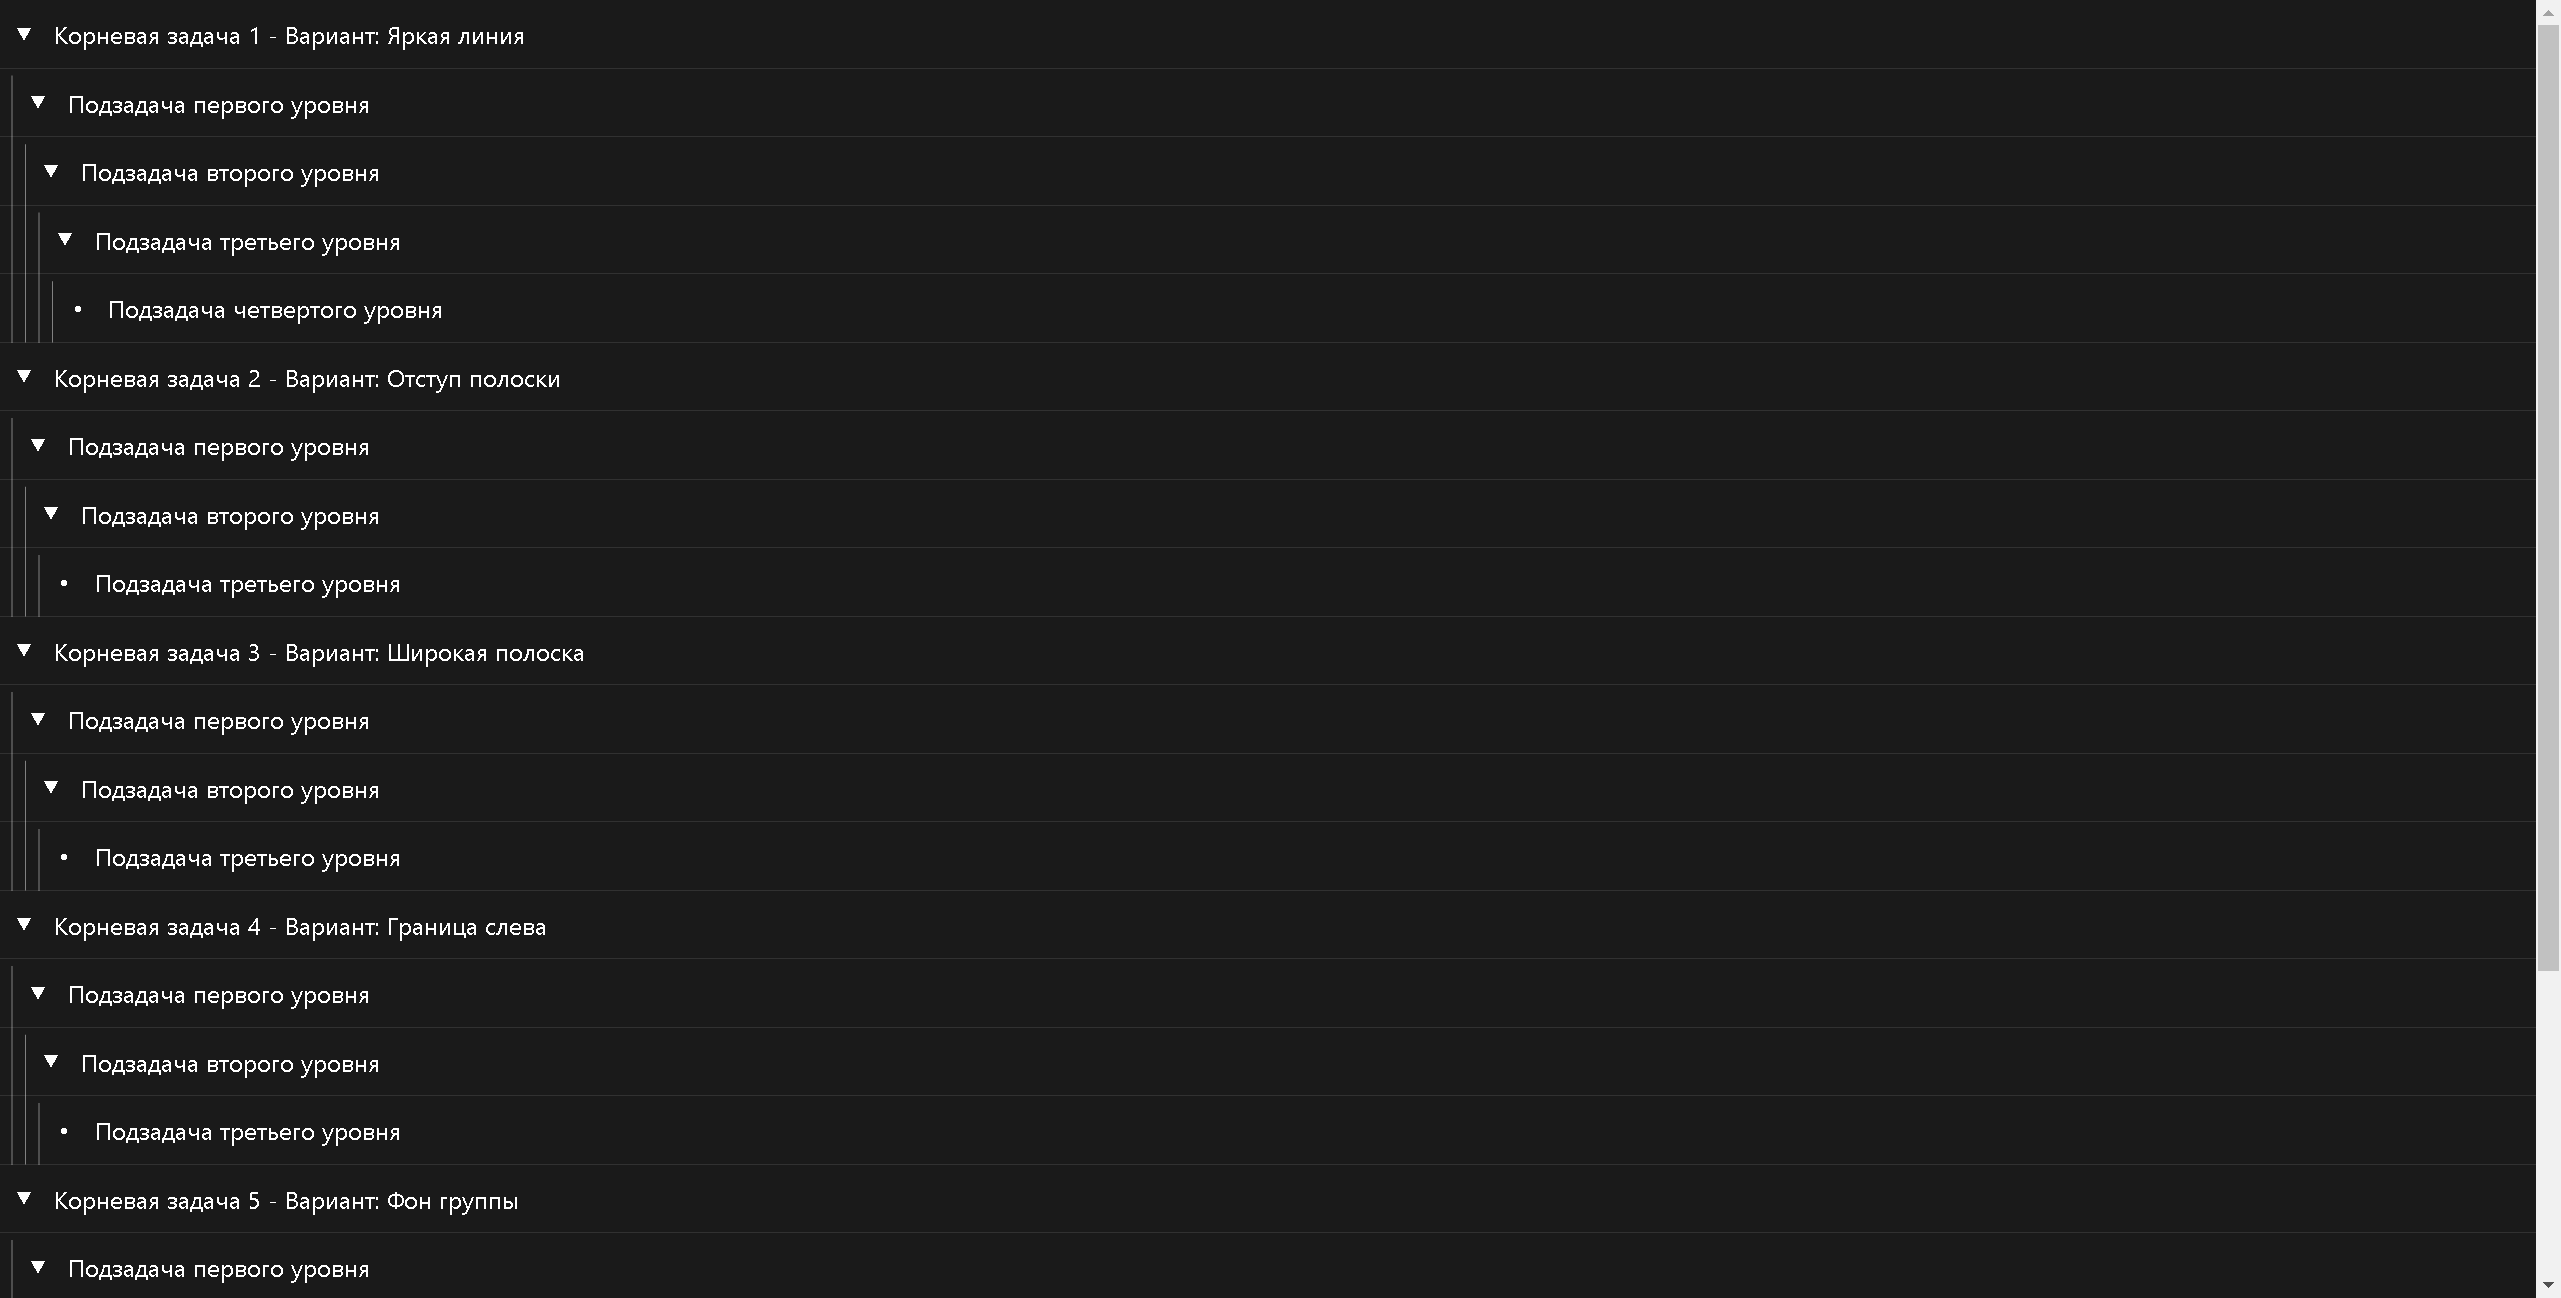
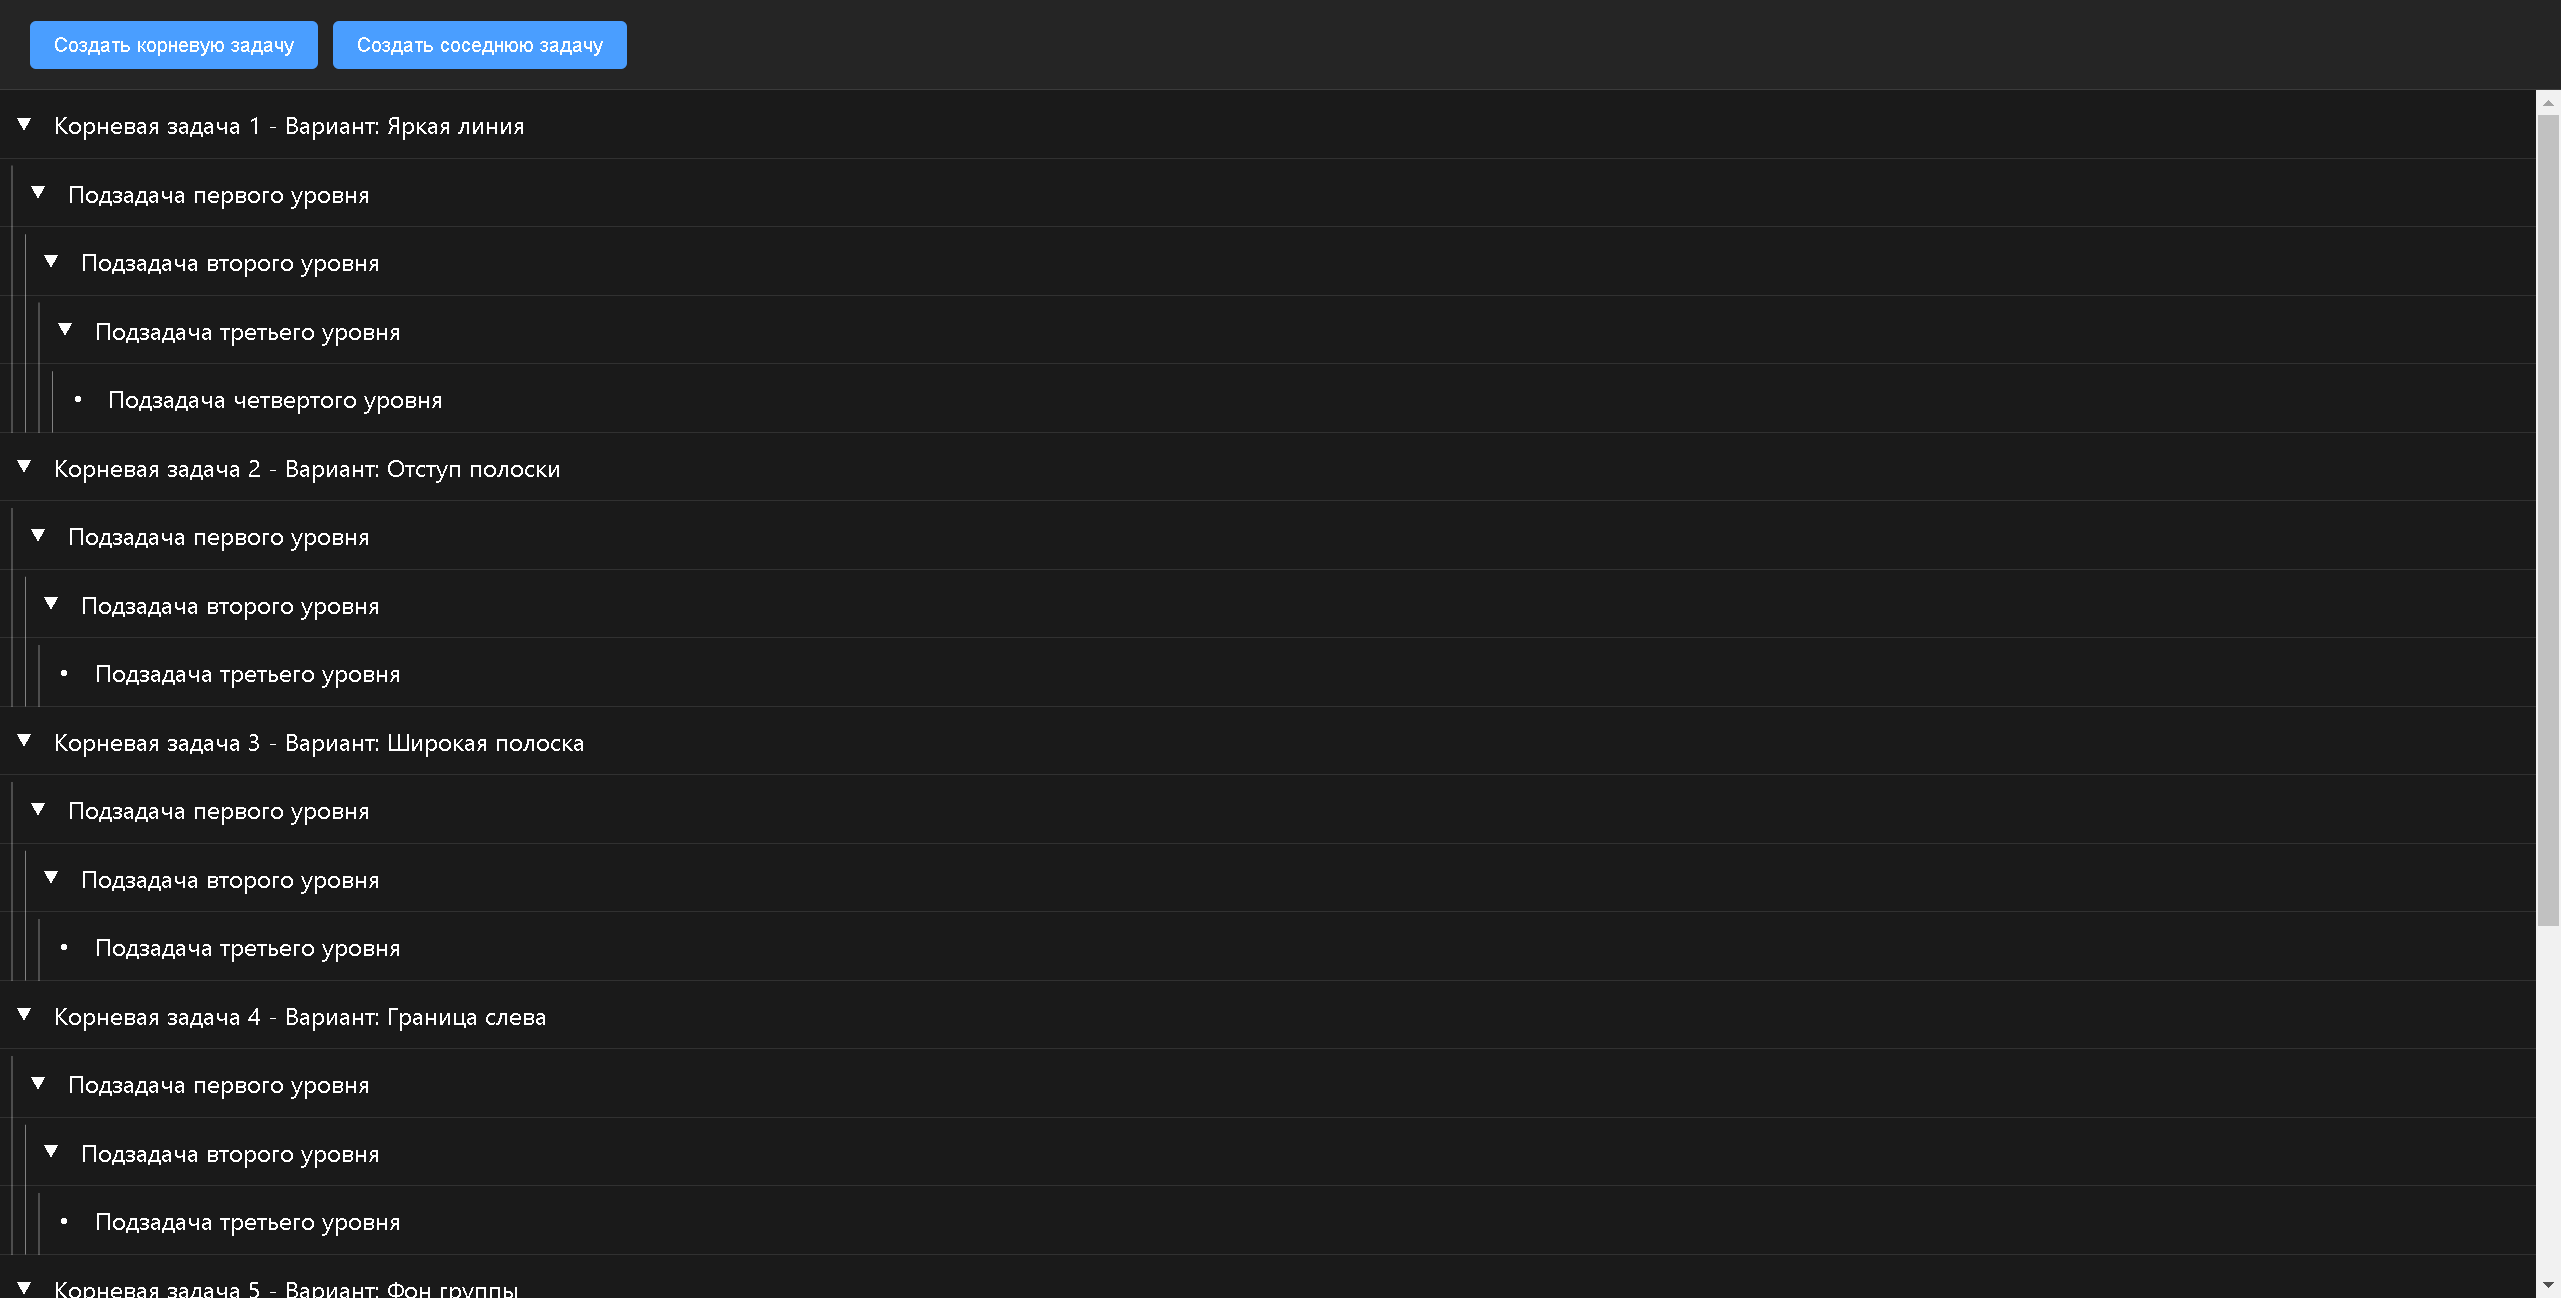
Add 'Create Sibling Task' functionality with customizable hotkey in settings. Update UI in settings.html and todo.html, and enhance hotkey handling in hotkeys.js and settingsStore.js.

diff --git a/settings.html b/settings.html
@@ -386,6 +386,11 @@
         </div>
 
         <div class="row">
+          <label for="addSiblingTaskHotkey">Создать соседнюю задачу:</label>
+          <input id="addSiblingTaskHotkey" type="text" class="hotkey-input" placeholder="Enter">
+        </div>
+
+        <div class="row">
           <label for="executeHotkey">Запустить таймер задачи:</label>
           <input id="executeHotkey" type="text" class="hotkey-input" placeholder="Ctrl+Space">
         </div>
@@ -558,6 +563,7 @@
         if (values.todoHotkeys) {
           $('addSubtaskHotkey').value = values.todoHotkeys.addSubtask || 'Ctrl+Enter';
           $('addRootTaskHotkey').value = values.todoHotkeys.addRootTask || 'Shift+Enter';
+          $('addSiblingTaskHotkey').value = values.todoHotkeys.addSiblingTask || 'Enter';
           $('executeHotkey').value = values.todoHotkeys.execute || 'Ctrl+Space';
           $('completeHotkey').value = values.todoHotkeys.complete || 'Delete';
         }
@@ -598,6 +604,7 @@
         if (!values.todoHotkeys) values.todoHotkeys = {};
         values.todoHotkeys.addSubtask = $('addSubtaskHotkey').value || 'Ctrl+Enter';
         values.todoHotkeys.addRootTask = $('addRootTaskHotkey').value || 'Shift+Enter';
+        values.todoHotkeys.addSiblingTask = $('addSiblingTaskHotkey').value || 'Enter';
         values.todoHotkeys.execute = $('executeHotkey').value || 'Ctrl+Space';
         values.todoHotkeys.complete = $('completeHotkey').value || 'Delete';
 
@@ -754,6 +761,7 @@
       setupHotkeyRecording('resetHotkey');
       setupHotkeyRecording('addSubtaskHotkey');
       setupHotkeyRecording('addRootTaskHotkey');
+      setupHotkeyRecording('addSiblingTaskHotkey');
       setupHotkeyRecording('executeHotkey');
       setupHotkeyRecording('completeHotkey');
 

diff --git a/src/todo/hotkeys.js b/src/todo/hotkeys.js
@@ -69,6 +69,16 @@ function setupHotkeys(state, refreshTodos, focusTask) {
         window.todoRenderer.createAndFocusTask(currentTaskId, state, refreshTodos);
         return;
       }
+      if (matchesHotkey(e, state.todoHotkeys.addSiblingTask)) {
+        e.preventDefault();
+        let parentId = null;
+        if (currentTaskId) {
+          const task = state.currentTodos.find(t => t.id === currentTaskId);
+          if (task) parentId = task.parentId;
+        }
+        window.todoRenderer.createAndFocusTask(parentId, state, refreshTodos);
+        return;
+      }
       return;
     }
     
@@ -76,6 +86,17 @@ function setupHotkeys(state, refreshTodos, focusTask) {
     if (matchesHotkey(e, state.todoHotkeys.addRootTask)) {
       e.preventDefault();
       window.todoRenderer.createAndFocusTask(null, state, refreshTodos);
+      return;
+    }
+
+    if (matchesHotkey(e, state.todoHotkeys.addSiblingTask)) {
+      e.preventDefault();
+      let parentId = null;
+      if (currentTaskId) {
+        const task = state.currentTodos.find(t => t.id === currentTaskId);
+        if (task) parentId = task.parentId;
+      }
+      window.todoRenderer.createAndFocusTask(parentId, state, refreshTodos);
       return;
     }
 

diff --git a/todo.html b/todo.html
@@ -164,6 +164,7 @@
   <body>
     <div id="todo-header">
       <button class="btn-primary" id="btn-create-root" title="Shift+Enter">Создать корневую задачу</button>
+      <button class="btn-primary" id="btn-create-sibling" title="Enter" style="margin-left: 10px;">Создать соседнюю задачу</button>
     </div>
     <div id="todo-container">
       <div id="todo-container-inner">
@@ -209,6 +210,15 @@
 
       document.getElementById('btn-create-root').addEventListener('click', () => {
         renderer.createAndFocusTask(null, state, doRefresh);
+      });
+
+      document.getElementById('btn-create-sibling').addEventListener('click', () => {
+        let parentId = null;
+        if (state.activeTaskId) {
+          const task = state.currentTodos.find(t => t.id === state.activeTaskId);
+          if (task) parentId = task.parentId;
+        }
+        renderer.createAndFocusTask(parentId, state, doRefresh);
       });
       
       if (window.todoApi) {

diff --git a/src/store/settingsStore.js b/src/store/settingsStore.js
@@ -24,6 +24,7 @@ const DEFAULT_SETTINGS = {
   todoHotkeys: {
     addSubtask: 'Ctrl+Enter',
     addRootTask: 'Shift+Enter',
+    addSiblingTask: 'Enter',
     execute: 'Ctrl+Space',
     complete: 'Delete'
   }
